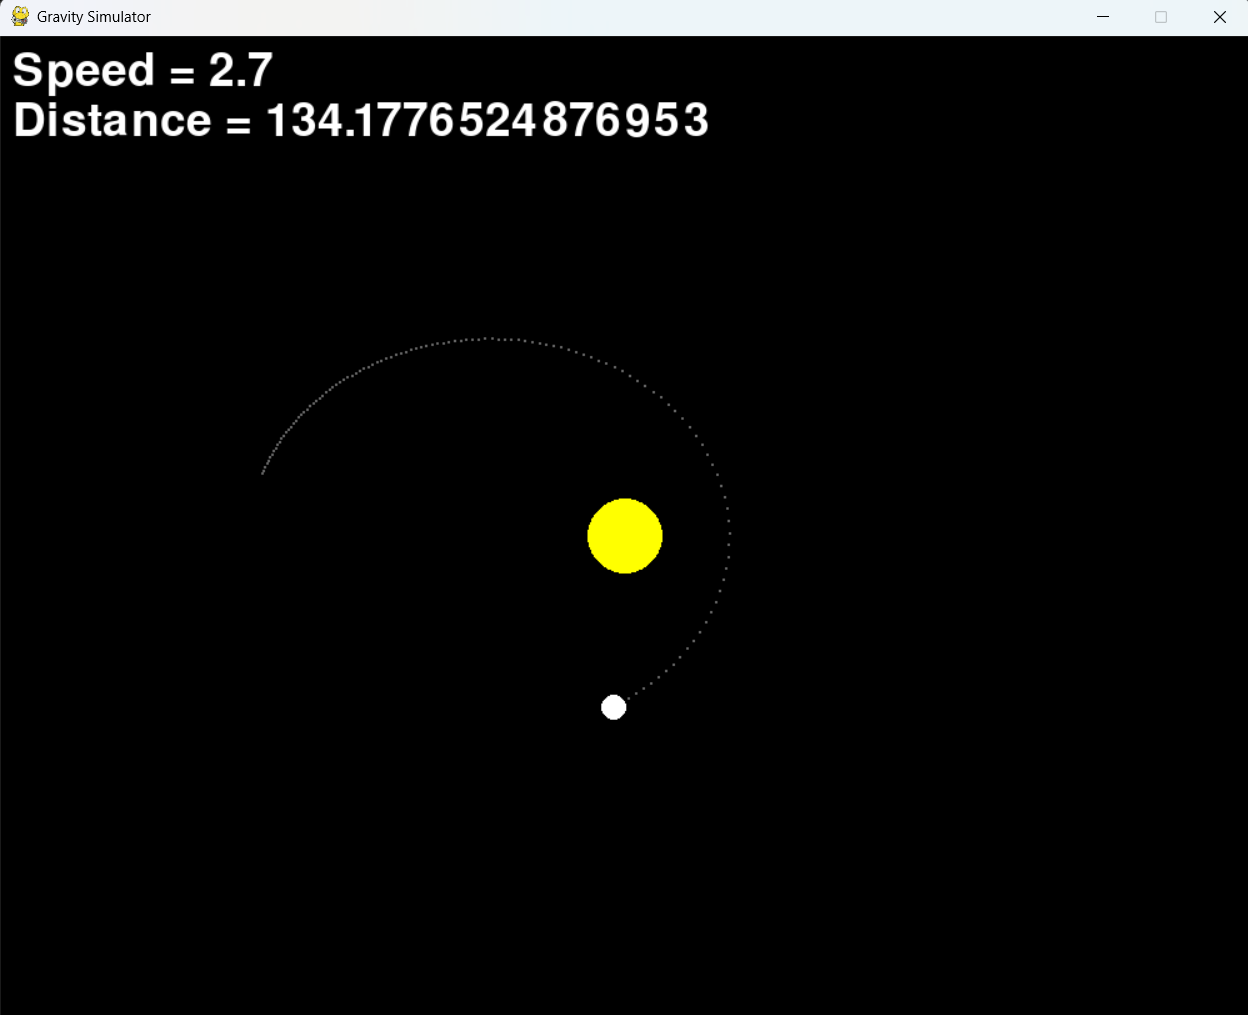
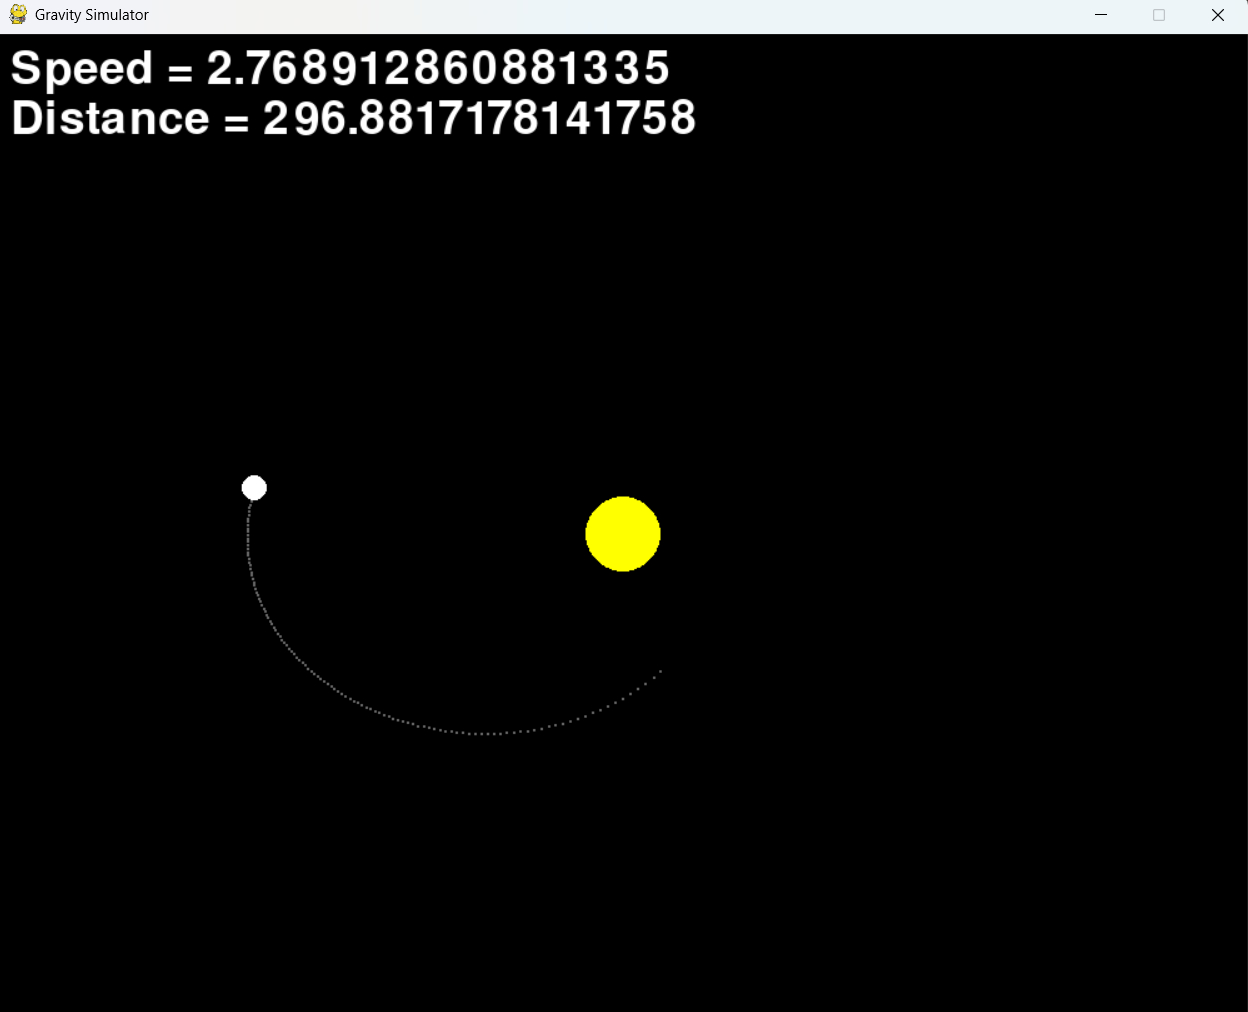
Improve screenshot

diff --git a/README.md b/README.md
@@ -1,6 +1,6 @@
 # Gravity Simulator
 
-![Simulation Screenshot](screenshot.png)
+
 
 My first Python physics simulation project.
 